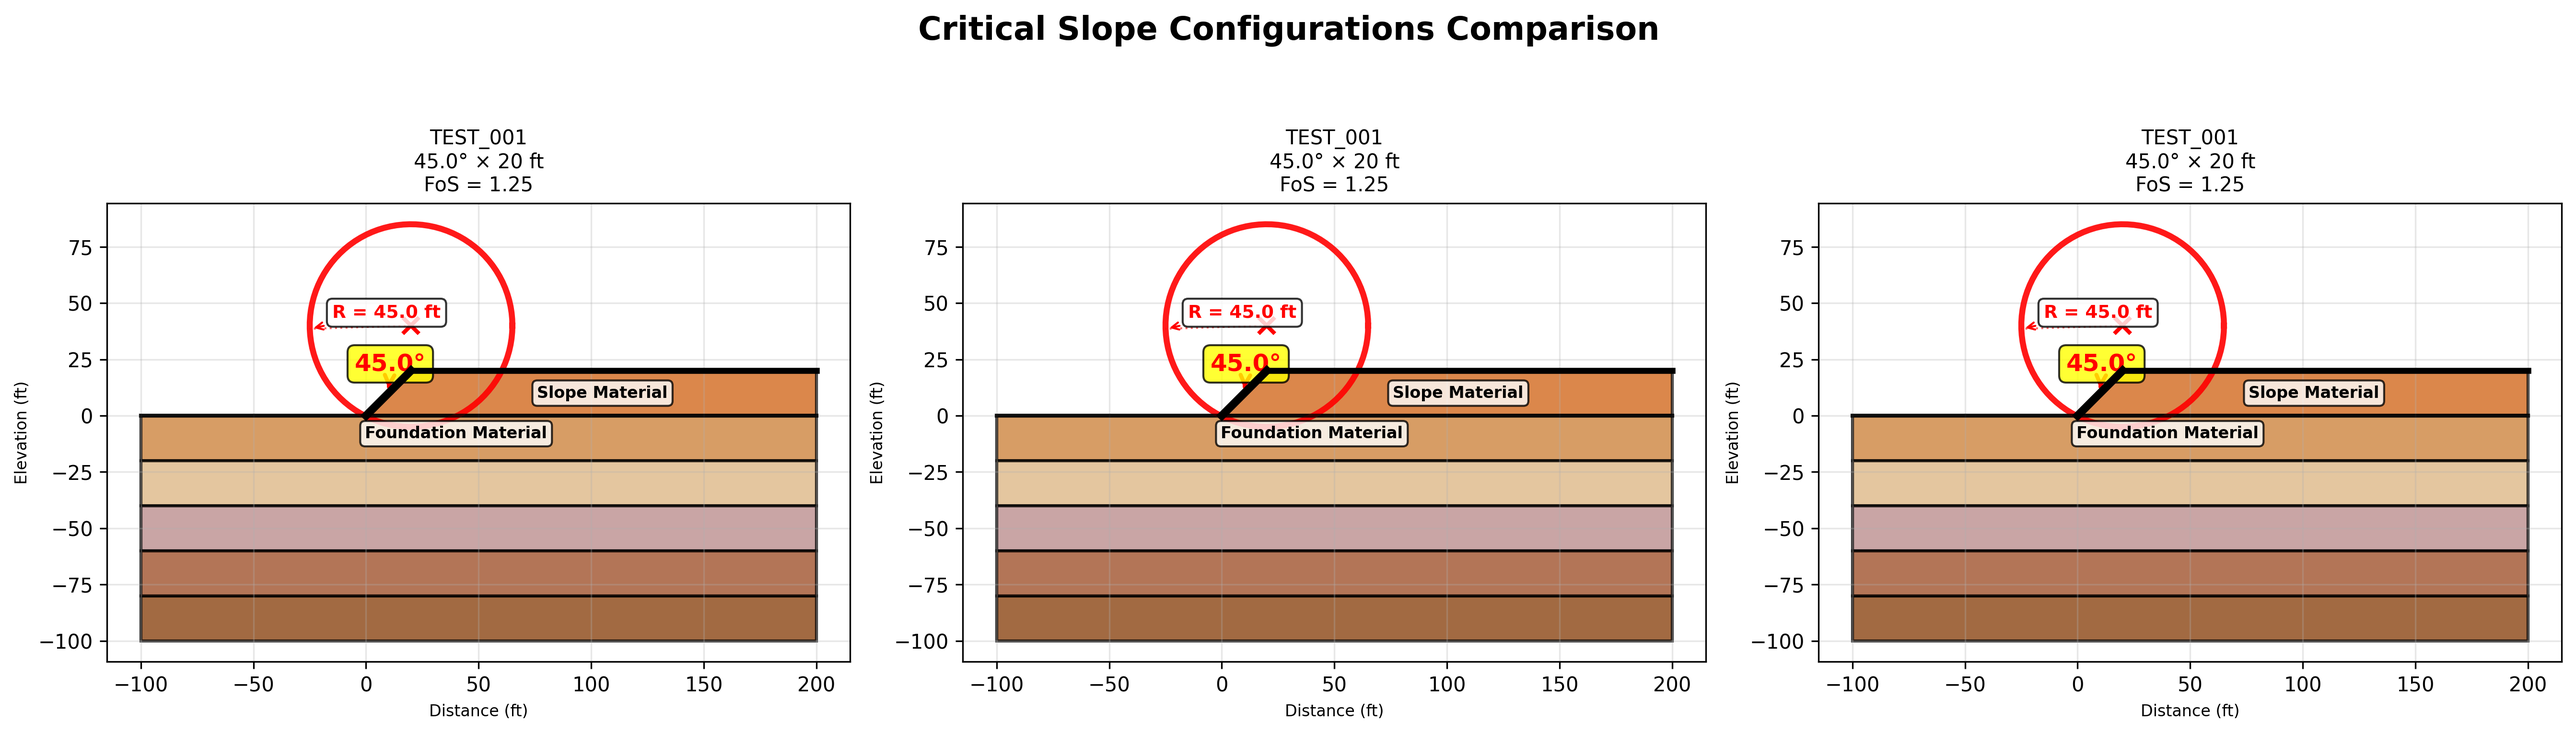
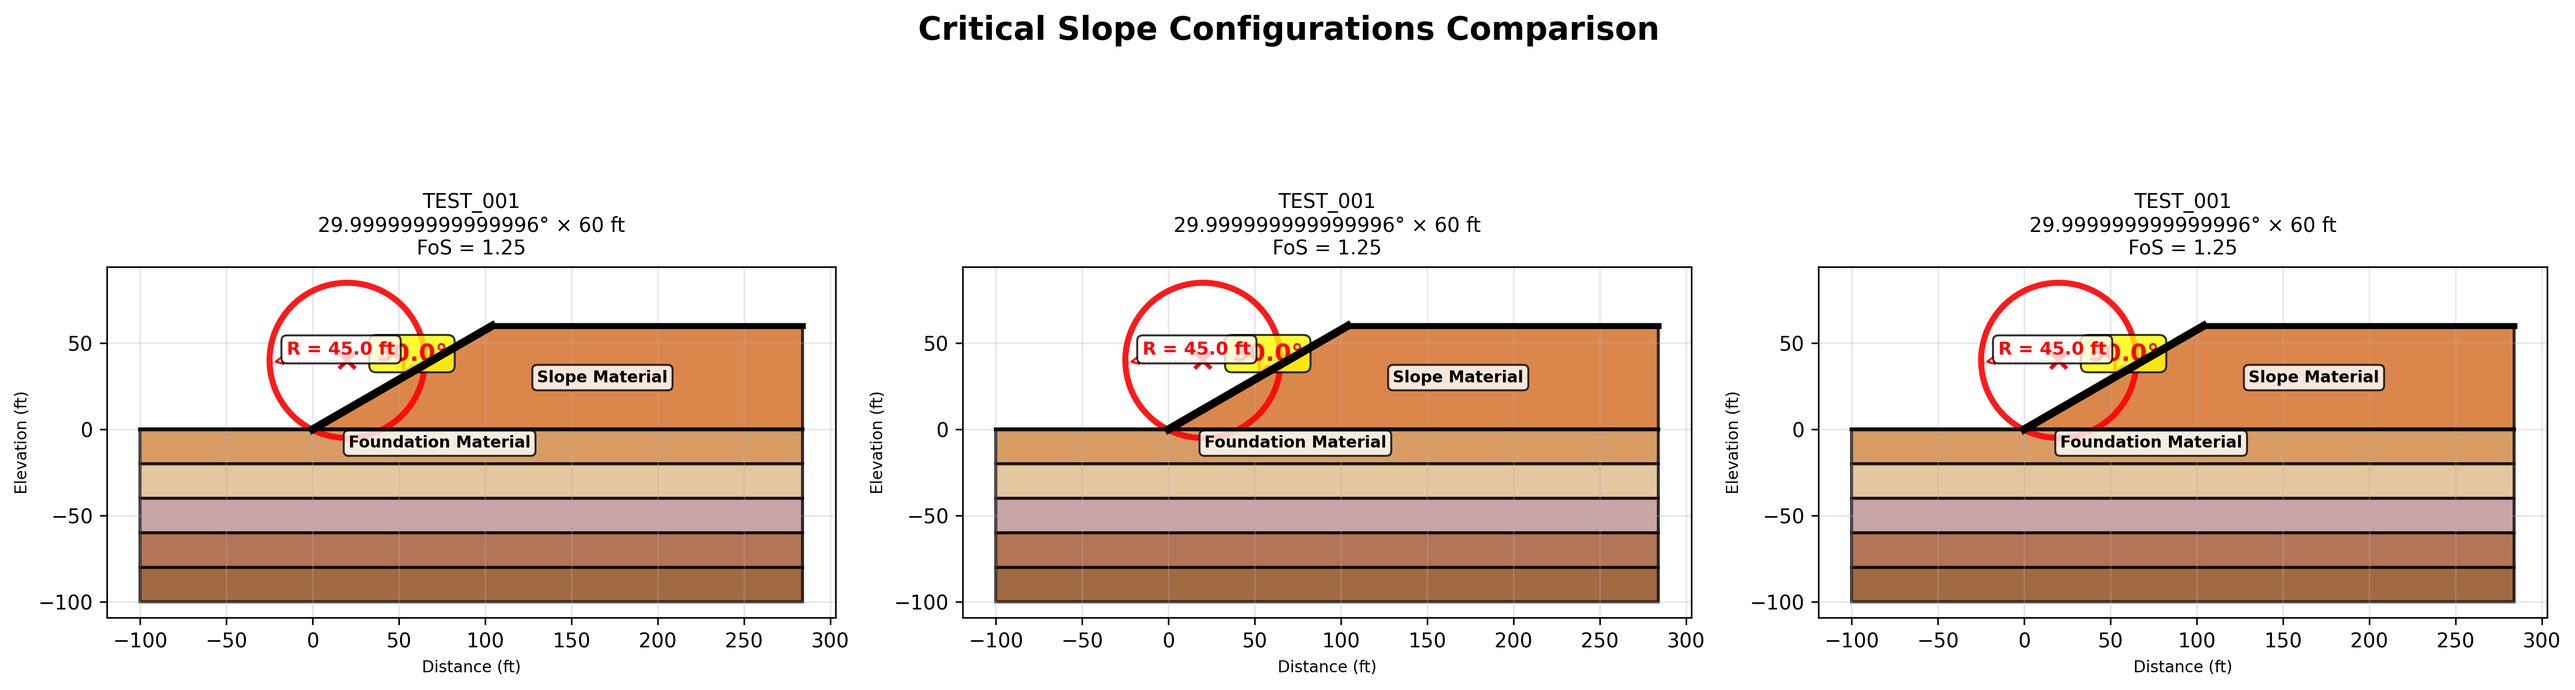
fixing outputs

diff --git a/EMPCO/slope_stability_automation.py b/EMPCO/slope_stability_automation.py
@@ -62,18 +62,30 @@ class SlopeGeometry:
     
     @classmethod
     def create_standard_slope(cls, slope_angle: float, slope_height: float) -> 'SlopeGeometry':
-        """Create standard slope geometry from angle and height (for backward compatibility)"""
+        """Create standard slope geometry from angle and height with full template structure"""
         # Calculate slope length based on angle and height
         slope_length = slope_height / np.tan(np.radians(slope_angle))
         
+        # Create all 15 points needed for proper material regions (based on template structure)
         points = [
-            GeometryPoint(1, 0, 0, "Point+Number", True),  # Toe
-            GeometryPoint(2, slope_length, slope_height, "Point+Number", True),  # Crest
-            GeometryPoint(3, slope_length + 180, slope_height, "Point+Number", True),  # Plateau
-            GeometryPoint(4, -100, 0, "Point+Number", True),  # Left boundary at toe level
-            GeometryPoint(5, -100, -100, "Point+Number", True),  # Bottom left
-            GeometryPoint(6, slope_length + 180, -100, "Point+Number", True),  # Bottom right
-            GeometryPoint(7, slope_length + 180, 0, "Point+Number", False),  # Right boundary at toe level
+            # Main slope geometry points (1-7)
+            GeometryPoint(1, 0, 0, "Point+Number", True),                        # Toe of slope
+            GeometryPoint(2, slope_length, slope_height, "Point+Number", True),   # Top of slope face  
+            GeometryPoint(3, slope_length + 180, slope_height, "Point+Number", True), # Top of slope plateau
+            GeometryPoint(4, -100, 0, "Point+Number", True),                     # Left boundary
+            GeometryPoint(5, -100, -100, "Point+Number", True),                  # Bottom left
+            GeometryPoint(6, slope_length + 180, -100, "Point+Number", True),    # Bottom right
+            GeometryPoint(7, slope_length + 180, 0, "Point+Number", False),      # Right boundary (not pinned)
+            
+            # Additional points for soil layer boundaries (8-15) - needed for proper regions
+            GeometryPoint(8, -100, -20, "Point+Number", True),                   # Left at -20 ft
+            GeometryPoint(9, slope_length + 180, -20, "Point+Number", True),     # Right at -20 ft
+            GeometryPoint(10, -100, -40, "Point+Number", True),                  # Left at -40 ft
+            GeometryPoint(11, slope_length + 180, -40, "Point+Number", True),    # Right at -40 ft
+            GeometryPoint(12, -100, -60, "Point+Number", True),                  # Left at -60 ft
+            GeometryPoint(13, slope_length + 180, -60, "Point+Number", True),    # Right at -60 ft
+            GeometryPoint(14, -100, -80, "Point+Number", True),                  # Left at -80 ft
+            GeometryPoint(15, slope_length + 180, -80, "Point+Number", True),    # Right at -80 ft
         ]
         
         return cls(points=points)

diff --git a/EMPCO/slope_geometry_visualizer.py b/EMPCO/slope_geometry_visualizer.py
@@ -624,8 +624,8 @@ class SlopeGeometryVisualizer:
 def main():
     """Test function for slope geometry visualization"""
     
-    # Create test configuration using template geometry
-    test_geometry = SlopeGeometry.create_specified_slope()
+    # Create test configuration using standard slope method (now with proper regions)
+    test_geometry = SlopeGeometry.create_standard_slope(30, 60)
     
     test_soil_layers = [
         SoilLayer("Weak Clay", 115, 100, 50, 15, 25),
